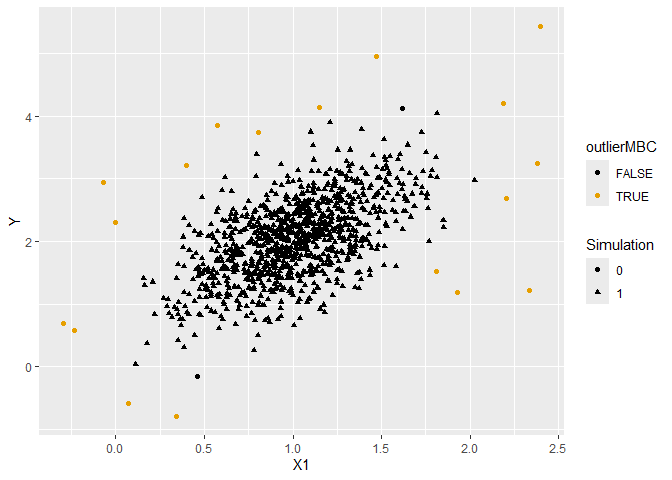
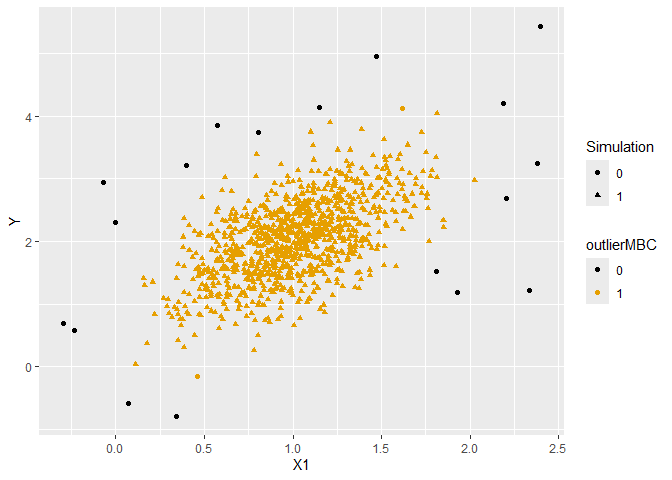
README

diff --git a/README.md b/README.md
@@ -50,7 +50,7 @@ data.frame(
 gmm_p2g3 |>
   ggplot(aes(
     x = X1, y = X2,
-    colour = as.factor(ombc_gmm_p2g3$gmm_labels),
+    colour = as.factor(ombc_gmm_p2g3$labels),
     shape = as.factor(G)
   )) +
   geom_point() +
@@ -101,12 +101,12 @@ data.frame(
 lcwm_p1g1_y_only |>
   ggplot(aes(
     x = X1, y = Y,
-    colour = as.factor(ombc_lcwm_p1g1_y_only$outlier_bool),
+    colour = as.factor(ombc_lcwm_p1g1_y_only$labels),
     shape = as.factor(G)
   )) +
   geom_point() +
   labs(colour = "outlierMBC", shape = "Simulation") +
-  ggokabeito::scale_colour_okabe_ito(order = c(9, 1, 2))
+  ggokabeito::scale_colour_okabe_ito(order = c(9, 1))
 ```
 
 <img src="README_files/figure-gfm/unnamed-chunk-3-1.png" width="50%" /><img src="README_files/figure-gfm/unnamed-chunk-3-2.png" width="50%" />
@@ -150,12 +150,12 @@ data.frame(
 lcwm_p1g1_x_only |>
   ggplot(aes(
     x = X1, y = Y, 
-    colour = as.factor(ombc_lcwm_p1g1_x_only$outlier_bool),
+    colour = as.factor(ombc_lcwm_p1g1_x_only$labels),
     shape = as.factor(G)
   )) +
   geom_point() +
   labs(colour = "outlierMBC", shape = "Simulation") +
-  ggokabeito::scale_colour_okabe_ito(order = c(9, 1, 2))
+  ggokabeito::scale_colour_okabe_ito(order = c(9, 1))
 ```
 
 <img src="README_files/figure-gfm/unnamed-chunk-4-1.png" width="50%" /><img src="README_files/figure-gfm/unnamed-chunk-4-2.png" width="50%" />
@@ -199,12 +199,12 @@ data.frame(
 lcwm_p1g1_x_and_y |>
 ggplot(aes(
   x = X1, y = Y,
-  colour = as.factor(ombc_lcwm_p1g1_x_and_y$outlier_bool),
+  colour = as.factor(ombc_lcwm_p1g1_x_and_y$labels),
   shape = as.factor(G)
   )) +
   geom_point() +
   labs(colour = "outlierMBC", shape = "Simulation") +
-  ggokabeito::scale_colour_okabe_ito(order = c(9, 1, 2))
+  ggokabeito::scale_colour_okabe_ito(order = c(9, 1))
 ```
 
 <img src="README_files/figure-gfm/unnamed-chunk-5-1.png" width="50%" /><img src="README_files/figure-gfm/unnamed-chunk-5-2.png" width="50%" />
@@ -249,7 +249,7 @@ data.frame(
 lcwm_p1g2_y_only |>
   ggplot(aes(
     x = X1, y = Y,
-    colour = as.factor(ombc_lcwm_p1g2_y_only$outlier_bool),
+    colour = as.factor(ombc_lcwm_p1g2_y_only$labels),
     shape = as.factor(G)
   )) +
   geom_point() +
@@ -299,7 +299,7 @@ data.frame(
 lcwm_p1g2_x_only |>
   ggplot(aes(
     x = X1, y = Y,
-    colour = as.factor(ombc_lcwm_p1g2_x_only$outlier_bool),
+    colour = as.factor(ombc_lcwm_p1g2_x_only$labels),
     shape = as.factor(G)
   )) +
   geom_point() +
@@ -349,7 +349,7 @@ data.frame(
 lcwm_p1g2_x_and_y |>
   ggplot(aes(
     x = X1, y = Y,
-    colour = as.factor(ombc_lcwm_p1g2_x_and_y$outlier_bool),
+    colour = as.factor(ombc_lcwm_p1g2_x_and_y$labels),
     shape = as.factor(G)
   )) +
   geom_point() +
